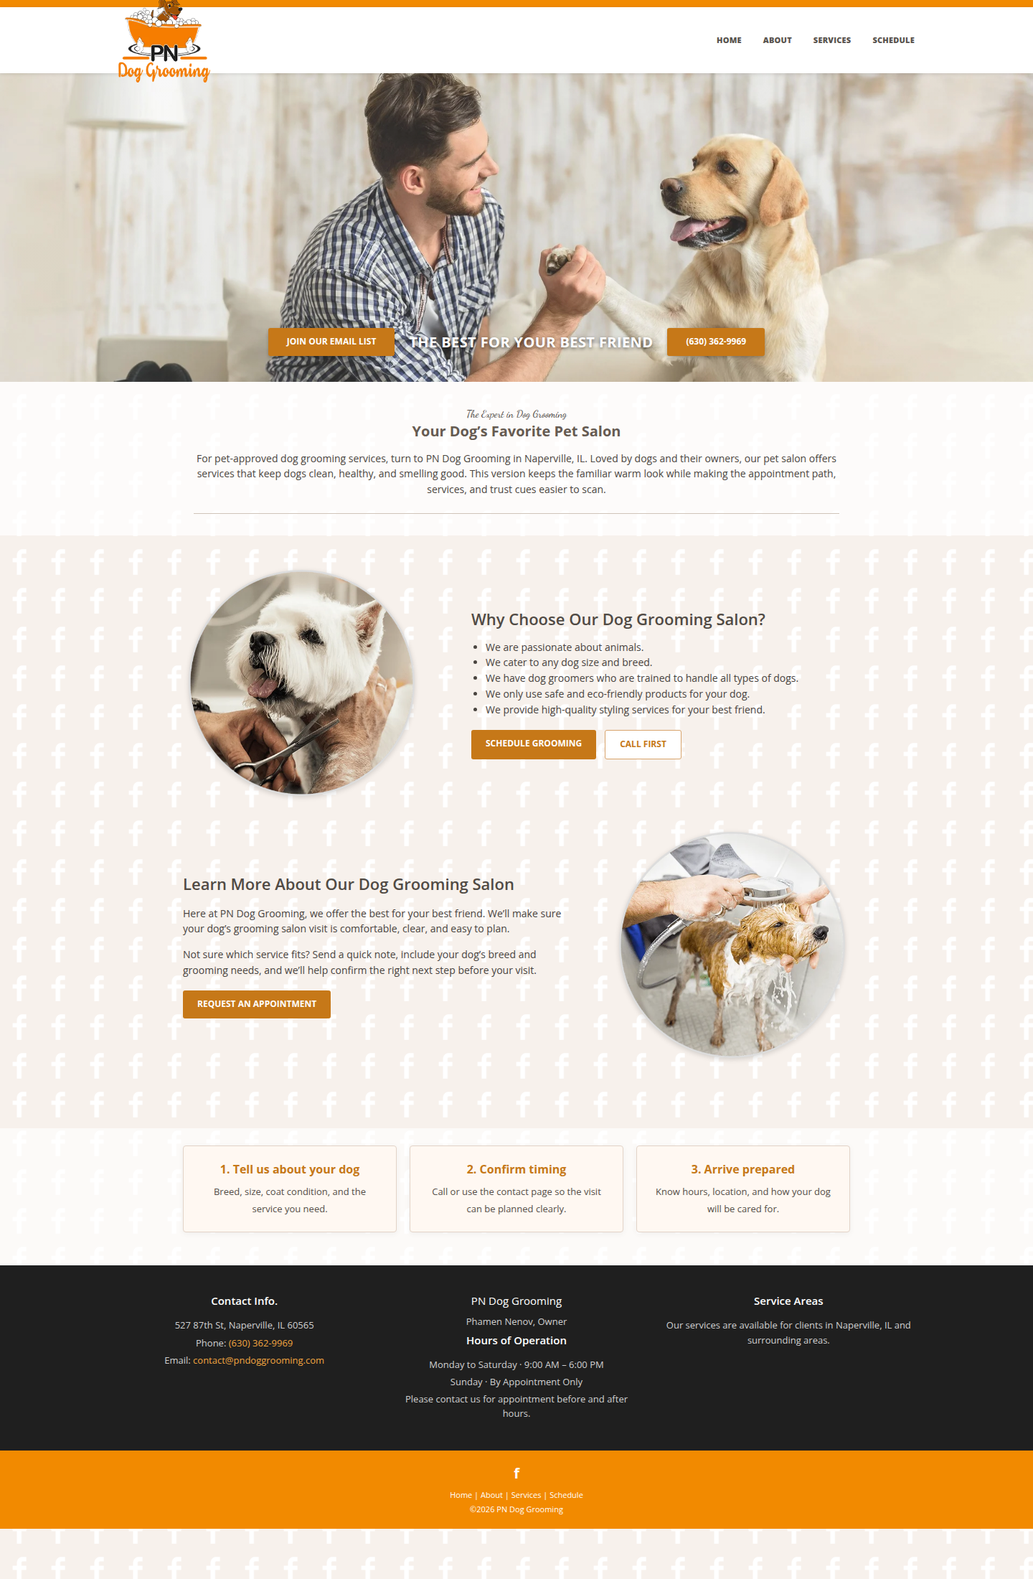
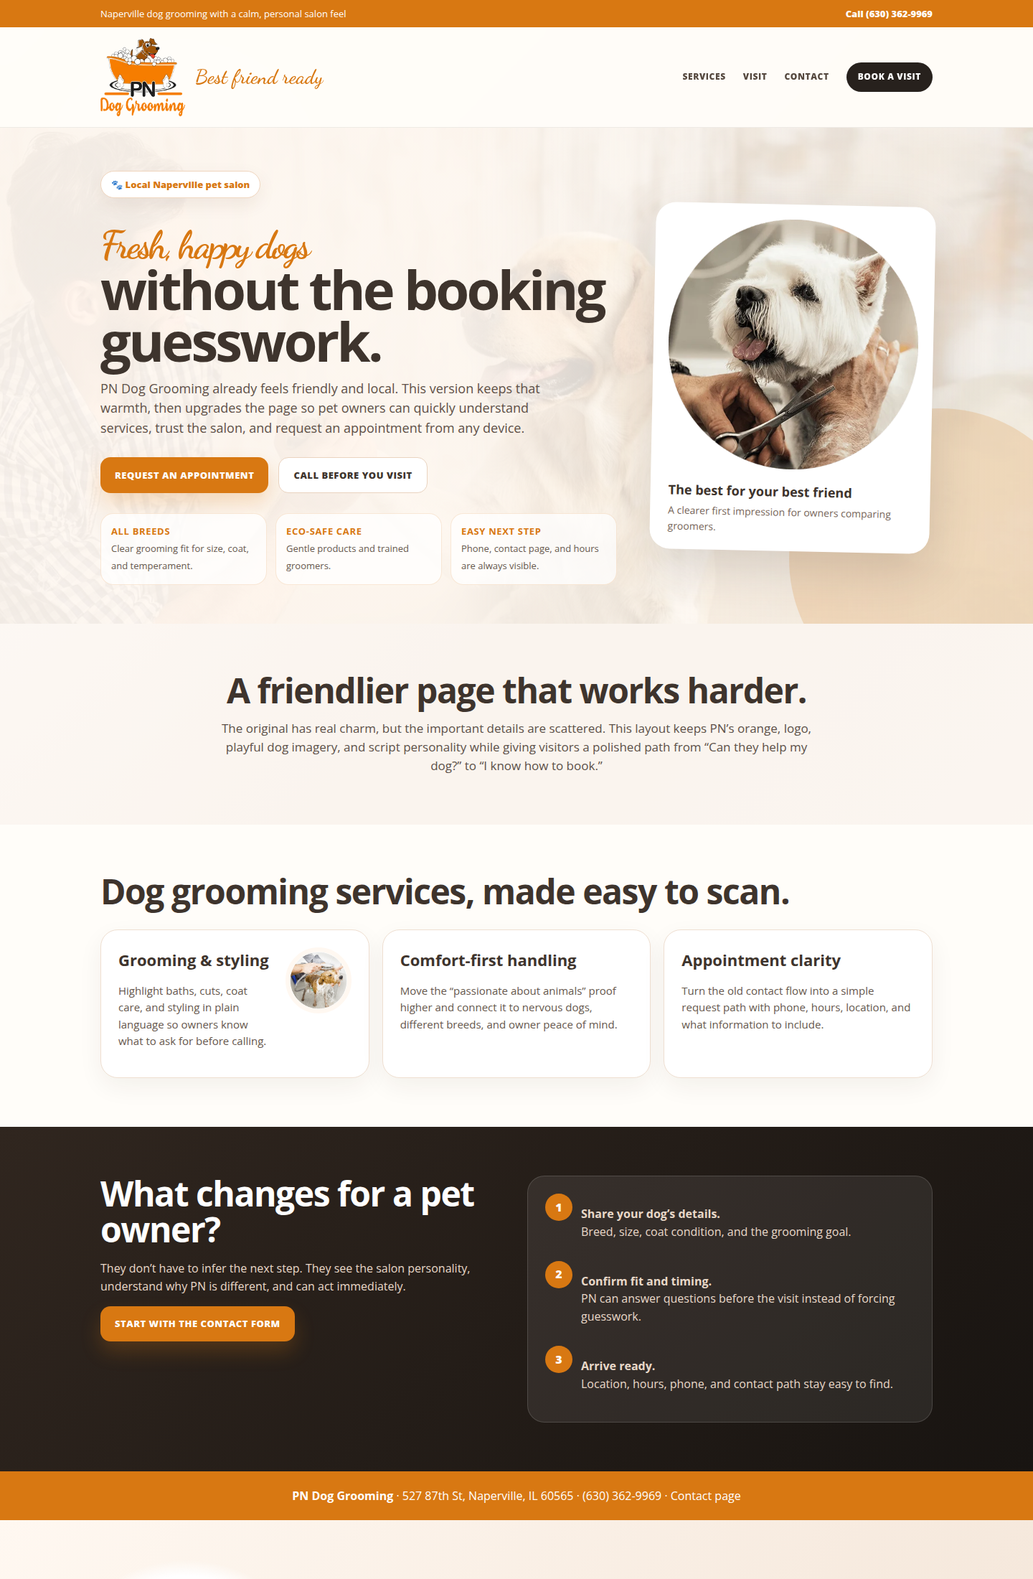
Redo PN Dog Grooming as upgraded concept

diff --git a/prototypes/2026-04-28-2238-overnight-2/pn-dog-grooming/index.html b/prototypes/2026-04-28-2238-overnight-2/pn-dog-grooming/index.html
@@ -3,82 +3,54 @@
 <head>
   <meta charset="utf-8">
   <meta name="viewport" content="width=device-width, initial-scale=1">
-  <title>PN Dog Grooming | Naperville Pet Salon</title>
-  <meta name="description" content="PN Dog Grooming in Naperville keeps the warm pet-salon feel while making grooming services, trust cues, and scheduling easier to find.">
+  <title>PN Dog Grooming | Calm, Clear Grooming in Naperville</title>
+  <meta name="description" content="A warmer, clearer PN Dog Grooming concept that keeps the salon's friendly personality while improving booking, service clarity, and mobile action paths.">
   <link rel="preconnect" href="https://fonts.googleapis.com">
   <link rel="preconnect" href="https://fonts.gstatic.com" crossorigin>
-  <link href="https://fonts.googleapis.com/css2?family=Dancing+Script:wght@400;700&family=Open+Sans:wght@300;400;600;700;800&display=swap" rel="stylesheet">
+  <link href="https://fonts.googleapis.com/css2?family=Dancing+Script:wght@600;700&family=Open+Sans:wght@400;600;700;800&display=swap" rel="stylesheet">
   <style>
-    *{box-sizing:border-box}html{scroll-behavior:smooth}body{margin:0;font-family:'Open Sans',Arial,sans-serif;color:#423b35;background:#f7f1ec url('https://si.nccdn.net/pictograms-white/256/icon_178.png') repeat;background-size:54px;line-height:1.55}.wrap{width:min(1110px,calc(100% - 34px));margin:auto}a{text-decoration:none;color:inherit}.orangebar{height:10px;background:#f28a00}.header{background:#fff;box-shadow:0 1px 5px rgba(0,0,0,.12);position:relative;z-index:5}.head{height:92px;display:flex;align-items:center;justify-content:space-between;gap:28px}.logo{display:flex;align-items:center}.logo img{width:128px;height:auto;display:block}.nav{display:flex;gap:30px;align-items:center;text-transform:uppercase;font-size:11px;font-weight:800;color:#57524d;letter-spacing:.02em}.nav a:hover{color:#df7f00}.hero{min-height:430px;background:linear-gradient(90deg,rgba(255,255,255,.12),rgba(255,255,255,.05)),url('https://0201.nccdn.net/4_2/000/000/079/c81/banner01-min-1920x600.jpg#RDAMDAID17653376') center/cover no-repeat;position:relative}.hero .wrap{min-height:430px;display:flex;align-items:flex-end;justify-content:center;padding-bottom:36px}.hero-strip{display:flex;align-items:center;justify-content:center;gap:20px;width:min(760px,100%)}.pill{background:#c67818;color:#fff;border:0;border-radius:3px;padding:10px 26px;font-size:12px;text-transform:uppercase;font-weight:700;box-shadow:0 2px 4px rgba(0,0,0,.22)}.hero-title{color:#fff;text-shadow:0 2px 5px rgba(0,0,0,.55);font-size:20px;text-transform:uppercase;font-weight:700;letter-spacing:.02em;white-space:nowrap}.intro{text-align:center;padding:38px 0 30px;background:rgba(255,255,255,.72)}.script{font-family:'Dancing Script',cursive;color:#d58a31;font-size:43px;line-height:1.05;margin:0 0 6px}.intro h1{font-size:20px;margin:0 0 12px;color:#665b52;font-weight:700}.intro p{max-width:920px;margin:0 auto;font-size:14px;color:#4b4641}.divider{height:1px;background:#cfc3b8;margin:22px auto 0;width:min(900px,92%)}.section{padding:48px 0}.feature{display:grid;grid-template-columns:330px 1fr;gap:72px;align-items:center;max-width:930px;margin:0 auto 50px}.feature.reverse{grid-template-columns:1fr 330px}.round{width:315px;height:315px;border-radius:50%;background:#ddd center/cover no-repeat;margin:auto;box-shadow:0 2px 7px rgba(0,0,0,.15)}.feature h2{font-size:22px;margin:0 0 12px;color:#504a44;font-weight:600}.feature p,.feature li{font-size:14px;color:#49443f}.feature ul{margin:0;padding-left:20px}.cta-row{margin-top:18px;display:flex;gap:12px;flex-wrap:wrap}.cta{display:inline-block;background:#c67818;color:#fff;padding:10px 20px;border-radius:3px;font-size:12px;text-transform:uppercase;font-weight:700}.cta.secondary{background:#fff;color:#c67818;border:1px solid #d8a36b}.footer-top{background:#1f1f1f;color:#e8e8e8;padding:38px 0}.footer-grid{display:grid;grid-template-columns:1fr 1fr 1fr;gap:28px;text-align:center}.footer-grid h3{font-size:15px;margin:0 0 12px;color:#fff;font-weight:600}.footer-grid p{font-size:13px;margin:4px 0;color:#d0d0d0}.footer-grid a{color:#f1a540}.footer-brand{font-size:15px;margin-bottom:7px;color:#fff}.footer-orange{background:#f28a00;color:#fff;text-align:center;padding:16px 0}.social{font-size:20px;font-weight:700;margin-bottom:6px}.footer-orange p{margin:3px 0;font-size:11px}.mobile-cta{display:none}.quick{background:rgba(255,255,255,.62);padding:24px 0 46px}.quick .wrap{display:grid;grid-template-columns:repeat(3,1fr);gap:18px;max-width:930px}.quick-card{background:#fff8f2;border:1px solid #e2d3c7;border-radius:4px;padding:20px;text-align:center;box-shadow:0 2px 9px rgba(0,0,0,.05)}.quick-card b{display:block;color:#c67818;margin-bottom:5px}.quick-card span{font-size:13px;color:#554e48}@media(max-width:850px){.head{height:auto;padding:14px 0;align-items:center}.logo img{width:112px}.nav{gap:14px;font-size:10px;flex-wrap:wrap;justify-content:flex-end}.hero,.hero .wrap{min-height:315px}.hero-strip{flex-direction:column;gap:10px}.hero-title{white-space:normal;text-align:center}.script{font-size:34px}.feature,.feature.reverse{grid-template-columns:1fr;gap:24px;text-align:center}.feature.reverse .copy{order:2}.feature.reverse .round{order:1}.round{width:260px;height:260px}.footer-grid,.quick .wrap{grid-template-columns:1fr}.mobile-cta{display:block;position:fixed;left:12px;right:12px;bottom:12px;background:#c67818;color:#fff;text-align:center;padding:13px;border-radius:4px;font-weight:800;z-index:20;box-shadow:0 4px 16px rgba(0,0,0,.25)}}
+    :root{--ink:#3e342d;--muted:#77665a;--cream:#fff8f1;--paper:#fffdf9;--tan:#e9d2be;--orange:#d87812;--orange2:#f69a25;--dark:#27211d;--green:#6d8b55;--rose:#f8dfd4}*{box-sizing:border-box}html{scroll-behavior:smooth}body{margin:0;font-family:'Open Sans',Arial,sans-serif;color:var(--ink);background:radial-gradient(circle at 18% 12%,#fff 0 8%,transparent 9%),linear-gradient(135deg,#fff8f1 0%,#f4e6d9 48%,#f9efe6 100%);line-height:1.55}a{text-decoration:none;color:inherit}.wrap{width:min(1160px,calc(100% - 36px));margin:auto}.topline{background:var(--orange);color:#fff;font-size:13px}.topline .wrap{display:flex;justify-content:space-between;gap:18px;align-items:center;padding:9px 0}.topline a{font-weight:800}.header{background:rgba(255,253,249,.94);backdrop-filter:blur(10px);position:sticky;top:0;z-index:20;border-bottom:1px solid rgba(62,52,45,.09)}.head{display:flex;align-items:center;justify-content:space-between;gap:26px;padding:15px 0}.logo{display:flex;align-items:center;gap:14px}.logo img{width:118px;height:auto}.brandline{font-family:'Dancing Script',cursive;color:var(--orange);font-size:28px;line-height:1}.nav{display:flex;align-items:center;gap:24px;text-transform:uppercase;font-size:12px;font-weight:800;letter-spacing:.05em;color:#55483f}.nav .book{background:var(--dark);color:#fff;padding:11px 16px;border-radius:999px}.hero{position:relative;overflow:hidden;padding:60px 0 54px}.hero:before{content:"";position:absolute;inset:0;background:linear-gradient(90deg,rgba(255,248,241,.94) 0 45%,rgba(255,248,241,.50)),url('https://0201.nccdn.net/4_2/000/000/079/c81/banner01-min-1920x600.jpg#RDAMDAID17653376') center right/cover no-repeat;z-index:-2}.hero:after{content:"";position:absolute;right:-80px;bottom:-120px;width:420px;height:420px;border-radius:50%;background:rgba(216,120,18,.18);z-index:-1}.hero-grid{display:grid;grid-template-columns:minmax(0,1.02fr) 390px;gap:46px;align-items:center}.badge{display:inline-flex;align-items:center;gap:8px;background:#fff;border:1px solid #f0d6bf;border-radius:999px;padding:8px 14px;color:var(--orange);font-weight:800;font-size:13px;box-shadow:0 9px 24px rgba(88,57,30,.08)}h1{font-size:clamp(42px,6.3vw,76px);line-height:.95;margin:18px 0 16px;letter-spacing:-.05em}.script{font-family:'Dancing Script',cursive;color:var(--orange);font-size:clamp(34px,4vw,54px);line-height:.95}.lead{font-size:18px;max-width:650px;color:#5f5148;margin:0 0 26px}.actions{display:flex;gap:14px;flex-wrap:wrap}.btn{display:inline-flex;align-items:center;justify-content:center;border-radius:14px;padding:14px 20px;font-weight:900;text-transform:uppercase;font-size:13px;letter-spacing:.04em}.primary{background:var(--orange);color:#fff;box-shadow:0 14px 28px rgba(216,120,18,.24)}.secondary{background:#fff;color:var(--ink);border:1px solid #ead3bf}.hero-card{background:#fff;border-radius:28px;padding:18px;box-shadow:0 24px 70px rgba(62,52,45,.18);transform:rotate(1.2deg)}.hero-card img{display:block;width:100%;border-radius:22px;aspect-ratio:1/1;object-fit:cover}.card-note{padding:15px 7px 4px}.card-note b{display:block;font-size:18px}.card-note span{display:block;color:var(--muted);font-size:14px;margin-top:3px}.quick{margin-top:28px;display:grid;grid-template-columns:repeat(3,1fr);gap:12px;max-width:720px}.quick div{background:rgba(255,255,255,.76);border:1px solid rgba(216,120,18,.16);border-radius:18px;padding:14px}.quick b{display:block;color:var(--orange);font-size:13px;text-transform:uppercase;letter-spacing:.05em}.quick span{font-size:13px;color:#66584e}.section{padding:68px 0}.intro{text-align:center;background:rgba(255,255,255,.54)}.intro h2,.services h2,.visit h2{font-size:clamp(32px,4vw,48px);line-height:1.05;margin:0 0 14px;letter-spacing:-.03em}.intro p{max-width:850px;margin:0 auto;color:#5d5149;font-size:17px}.services{background:var(--paper)}.service-grid{display:grid;grid-template-columns:repeat(3,1fr);gap:18px;margin-top:28px}.service-card{background:#fff;border:1px solid #efdfd1;border-radius:24px;padding:24px;box-shadow:0 12px 34px rgba(58,39,25,.06)}.service-card img{width:92px;height:92px;border-radius:50%;object-fit:cover;float:right;margin:0 0 10px 16px;border:6px solid var(--cream)}.service-card h3{font-size:22px;margin:0 0 10px}.service-card p{color:#66584e;font-size:15px}.visit{background:linear-gradient(135deg,#30261f,#181411);color:#fff}.visit-grid{display:grid;grid-template-columns:1fr 1fr;gap:30px;align-items:start}.visit h2{color:#fff}.visit p{color:#e8d8c8}.panel{background:rgba(255,255,255,.08);border:1px solid rgba(255,255,255,.14);border-radius:24px;padding:24px}.steps{display:grid;gap:12px}.step{display:grid;grid-template-columns:38px 1fr;gap:12px;align-items:start}.num{width:38px;height:38px;border-radius:50%;background:var(--orange);display:grid;place-items:center;font-weight:900}.footer{background:var(--orange);color:#fff;text-align:center;padding:22px 0}.mobile-cta{display:none}@media(max-width:900px){.topline .wrap{display:block;text-align:center}.head{align-items:flex-start}.nav{gap:12px;flex-wrap:wrap;justify-content:flex-end}.brandline{display:none}.hero-grid,.visit-grid{grid-template-columns:1fr}.hero:before{background:linear-gradient(rgba(255,248,241,.92),rgba(255,248,241,.84)),url('https://0201.nccdn.net/4_2/000/000/079/c81/banner01-min-1920x600.jpg#RDAMDAID17653376') center/cover no-repeat}.hero-card{max-width:360px;margin:auto}.quick,.service-grid{grid-template-columns:1fr}.mobile-cta{display:block;position:fixed;left:12px;right:12px;bottom:12px;z-index:50;background:var(--orange);color:#fff;text-align:center;padding:14px;border-radius:14px;font-weight:900;box-shadow:0 12px 32px rgba(0,0,0,.28)}}
   </style>
 </head>
 <body>
-  <div class="orangebar"></div>
+  <div class="topline"><div class="wrap"><span>Naperville dog grooming with a calm, personal salon feel</span><a href="tel:6303629969">Call (630) 362-9969</a></div></div>
   <header class="header">
     <div class="wrap head">
-      <a class="logo" href="#top" aria-label="PN Dog Grooming home"><img src="https://0201.nccdn.net/1_2/000/000/0c1/f19/logo_1.png#RDAMDAID17636817" alt="PN Dog Grooming"></a>
-      <nav class="nav" aria-label="Primary navigation"><a href="#home">Home</a><a href="#about">About</a><a href="#services">Services</a><a href="#schedule">Schedule</a></nav>
+      <a class="logo" href="#top"><img src="https://0201.nccdn.net/1_2/000/000/0c1/f19/logo_1.png#RDAMDAID17636817" alt="PN Dog Grooming"><span class="brandline">Best friend ready</span></a>
+      <nav class="nav"><a href="#services">Services</a><a href="#visit">Visit</a><a href="#contact">Contact</a><a class="book" href="https://www.pndoggrooming.com/contact.html">Book a visit</a></nav>
     </div>
   </header>
   <main id="top">
-    <section class="hero" id="home" aria-label="PN Dog Grooming hero">
-      <div class="wrap">
-        <div class="hero-strip"><a class="pill" href="https://www.pndoggrooming.com/contact.html">Join our email list</a><div class="hero-title">The Best For Your Best Friend</div><a class="pill" href="tel:6303629969">(630) 362-9969</a></div>
-      </div>
-    </section>
-    <section class="intro" id="about">
-      <div class="wrap">
-        <p class="script">The Expert in Dog Grooming</p>
-        <h1>Your Dog’s Favorite Pet Salon</h1>
-        <p>For pet-approved dog grooming services, turn to PN Dog Grooming in Naperville, IL. Loved by dogs and their owners, our pet salon offers services that keep dogs clean, healthy, and smelling good. This version keeps the familiar warm look while making the appointment path, services, and trust cues easier to scan.</p>
-        <div class="divider"></div>
-      </div>
-    </section>
-    <section class="section" id="services">
-      <div class="wrap">
-        <div class="feature">
-          <div class="round" style="background-image:url('https://0201.nccdn.net/1_2/000/000/09f/944/page-img01-min-490x490.png')"></div>
-          <div class="copy">
-            <h2>Why Choose Our Dog Grooming Salon?</h2>
-            <ul>
-              <li>We are passionate about animals.</li>
-              <li>We cater to any dog size and breed.</li>
-              <li>We have dog groomers who are trained to handle all types of dogs.</li>
-              <li>We only use safe and eco-friendly products for your dog.</li>
-              <li>We provide high-quality styling services for your best friend.</li>
-            </ul>
-            <div class="cta-row"><a class="cta" href="https://www.pndoggrooming.com/contact.html">Schedule Grooming</a><a class="cta secondary" href="tel:6303629969">Call First</a></div>
-          </div>
+    <section class="hero">
+      <div class="wrap hero-grid">
+        <div>
+          <span class="badge">🐾 Local Naperville pet salon</span>
+          <h1><span class="script">Fresh, happy dogs</span><br>without the booking guesswork.</h1>
+          <p class="lead">PN Dog Grooming already feels friendly and local. This version keeps that warmth, then upgrades the page so pet owners can quickly understand services, trust the salon, and request an appointment from any device.</p>
+          <div class="actions"><a class="btn primary" href="https://www.pndoggrooming.com/contact.html">Request an appointment</a><a class="btn secondary" href="tel:6303629969">Call before you visit</a></div>
+          <div class="quick"><div><b>All breeds</b><span>Clear grooming fit for size, coat, and temperament.</span></div><div><b>Eco-safe care</b><span>Gentle products and trained groomers.</span></div><div><b>Easy next step</b><span>Phone, contact page, and hours are always visible.</span></div></div>
         </div>
-        <div class="feature reverse" id="schedule">
-          <div class="copy">
-            <h2>Learn More About Our Dog Grooming Salon</h2>
-            <p>Here at PN Dog Grooming, we offer the best for your best friend. We’ll make sure your dog’s grooming salon visit is comfortable, clear, and easy to plan.</p>
-            <p>Not sure which service fits? Send a quick note, include your dog’s breed and grooming needs, and we’ll help confirm the right next step before your visit.</p>
-            <div class="cta-row"><a class="cta" href="https://www.pndoggrooming.com/contact.html">Request an Appointment</a></div>
-          </div>
-          <div class="round" style="background-image:url('https://0201.nccdn.net/1_2/000/000/138/d7d/page-img02-min-490x490.png')"></div>
-        </div>
+        <aside class="hero-card" aria-label="Happy dog grooming feature"><img src="https://0201.nccdn.net/1_2/000/000/09f/944/page-img01-min-490x490.png" alt="Freshly groomed dog"><div class="card-note"><b>The best for your best friend</b><span>A clearer first impression for owners comparing groomers.</span></div></aside>
       </div>
     </section>
-    <section class="quick" aria-label="Booking guidance">
-      <div class="wrap">
-        <div class="quick-card"><b>1. Tell us about your dog</b><span>Breed, size, coat condition, and the service you need.</span></div>
-        <div class="quick-card"><b>2. Confirm timing</b><span>Call or use the contact page so the visit can be planned clearly.</span></div>
-        <div class="quick-card"><b>3. Arrive prepared</b><span>Know hours, location, and how your dog will be cared for.</span></div>
+    <section class="section intro">
+      <div class="wrap"><h2>A friendlier page that works harder.</h2><p>The original has real charm, but the important details are scattered. This layout keeps PN’s orange, logo, playful dog imagery, and script personality while giving visitors a polished path from “Can they help my dog?” to “I know how to book.”</p></div>
+    </section>
+    <section class="section services" id="services">
+      <div class="wrap"><h2>Dog grooming services, made easy to scan.</h2><div class="service-grid">
+        <article class="service-card"><img src="https://0201.nccdn.net/1_2/000/000/138/d7d/page-img02-min-490x490.png" alt="Dog grooming service"><h3>Grooming & styling</h3><p>Highlight baths, cuts, coat care, and styling in plain language so owners know what to ask for before calling.</p></article>
+        <article class="service-card"><h3>Comfort-first handling</h3><p>Move the “passionate about animals” proof higher and connect it to nervous dogs, different breeds, and owner peace of mind.</p></article>
+        <article class="service-card"><h3>Appointment clarity</h3><p>Turn the old contact flow into a simple request path with phone, hours, location, and what information to include.</p></article>
+      </div></div>
+    </section>
+    <section class="section visit" id="visit">
+      <div class="wrap visit-grid">
+        <div><h2>What changes for a pet owner?</h2><p>They don’t have to infer the next step. They see the salon personality, understand why PN is different, and can act immediately.</p><div class="actions"><a class="btn primary" href="https://www.pndoggrooming.com/contact.html">Start with the contact form</a></div></div>
+        <div class="panel steps"><div class="step"><span class="num">1</span><p><b>Share your dog’s details.</b><br>Breed, size, coat condition, and the grooming goal.</p></div><div class="step"><span class="num">2</span><p><b>Confirm fit and timing.</b><br>PN can answer questions before the visit instead of forcing guesswork.</p></div><div class="step"><span class="num">3</span><p><b>Arrive ready.</b><br>Location, hours, phone, and contact path stay easy to find.</p></div></div>
       </div>
     </section>
   </main>
-  <footer>
-    <div class="footer-top" id="contact">
-      <div class="wrap footer-grid">
-        <div><h3>Contact Info.</h3><p>527 87th St, Naperville, IL 60565</p><p>Phone: <a href="tel:6303629969">(630) 362-9969</a></p><p>Email: <a href="mailto:contact@pndoggrooming.com">contact@pndoggrooming.com</a></p></div>
-        <div><div class="footer-brand">PN Dog Grooming</div><p>Phamen Nenov, Owner</p><h3>Hours of Operation</h3><p>Monday to Saturday · 9:00 AM – 6:00 PM</p><p>Sunday · By Appointment Only</p><p>Please contact us for appointment before and after hours.</p></div>
-        <div><h3>Service Areas</h3><p>Our services are available for clients in Naperville, IL and surrounding areas.</p></div>
-      </div>
-    </div>
-    <div class="footer-orange"><div class="social">f</div><p>Home | About | Services | Schedule</p><p>©2026 PN Dog Grooming</p></div>
-  </footer>
-  <a class="mobile-cta" href="https://www.pndoggrooming.com/contact.html">Schedule Grooming</a>
+  <footer class="footer" id="contact"><div class="wrap"><b>PN Dog Grooming</b> · 527 87th St, Naperville, IL 60565 · <a href="tel:6303629969">(630) 362-9969</a> · <a href="https://www.pndoggrooming.com/contact.html">Contact page</a></div></footer>
+  <a class="mobile-cta" href="https://www.pndoggrooming.com/contact.html">Book PN Dog Grooming</a>
 </body>
 </html>

diff --git a/reports/pn-dog-grooming-fidelity-redo-20260429-1524.html b/reports/pn-dog-grooming-fidelity-redo-20260429-1524.html
@@ -1,0 +1,1 @@
+<!doctype html><html lang="en"><head><meta charset="utf-8"><meta name="viewport" content="width=device-width, initial-scale=1"><title>PN Dog Grooming upgraded concept</title><meta name="robots" content="noindex,nofollow"><style>*{box-sizing:border-box}body{margin:0;font-family:Inter,system-ui,-apple-system,Segoe UI,Arial,sans-serif;background:#101318;color:#f4f6f8;line-height:1.5}.wrap{width:min(1500px,calc(100% - 36px));margin:auto;padding:34px 0 70px}.lede{max-width:930px;color:#c9d0d8}.eyebrow{text-transform:uppercase;letter-spacing:.12em;font-size:12px;color:#73839b;margin:0 0 6px}h1{font-size:clamp(32px,5vw,58px);line-height:1;margin:0 0 16px}h2{font-size:26px;margin:0 0 4px}.site{background:#fff;color:#17202b;border-radius:18px;padding:20px;margin:24px 0;box-shadow:0 18px 50px #0006}.meta{display:flex;align-items:end;justify-content:space-between;gap:20px;flex-wrap:wrap;margin-bottom:16px}.meta code{background:#eef2f6;padding:4px 7px;border-radius:6px}.links{display:flex;gap:10px;flex-wrap:wrap}.links a{background:#17202b;color:#fff;text-decoration:none;padding:9px 12px;border-radius:9px;font-weight:750}.note{background:#fff7e8;border:1px solid #f0d2a5;border-radius:12px;padding:12px 14px;margin:0 0 16px;color:#52351b}.shots{display:grid;grid-template-columns:1fr 1fr;gap:16px}figure{margin:0;border:1px solid #dbe1e8;border-radius:14px;overflow:hidden;background:#f6f8fa}img{display:block;width:100%;height:auto}figcaption{padding:10px 12px;font-weight:850;color:#344052}@media(max-width:900px){.shots{grid-template-columns:1fr}}</style></head><body><main class="wrap"><p class="eyebrow">Small Site Studio</p><h1>PN Dog Grooming upgraded concept</h1><p class="lede">This version intentionally steps farther away from a clone. It keeps PN’s orange, logo, pet imagery, and friendly script feel, but turns the page into a stronger booking-focused experience.</p><article class="site"><div class="meta"><div><p class="eyebrow">2026-04-28-2238-overnight-2</p><h2>PN Dog Grooming</h2><p><code>pn-dog-grooming</code></p></div><div class="links"><a href="https://www.pndoggrooming.com/">Original website</a><a href="https://alexzadclaw-ai.github.io/page-profit-check-prototypes/prototypes/2026-04-28-2238-overnight-2/pn-dog-grooming/index.html">Prototype</a><a href="https://github.com/alexzadclaw-ai/page-profit-check-prototypes/blob/main/opportunities/2026-04-28-2238-overnight-2/pn-dog-grooming-audit.md">Audit report</a><a href="https://github.com/alexzadclaw-ai/page-profit-check-prototypes/blob/main/offers/2026-04-28-2238-overnight-2/pn-dog-grooming-offer.md">Offer letter</a><a href="https://www.pndoggrooming.com/contact.html">Contact point</a><a href="https://github.com/alexzadclaw-ai/page-profit-check-prototypes/blob/main/state/fidelity-repair-100/2026-04-28-2238-overnight-2/pn-dog-grooming-fingerprint.md">Fingerprint</a></div></div><div class="note"><b>Improvement angle:</b> clearer appointment path, stronger first-screen message, scannable service reasons, mobile action path, and cleaner visual hierarchy while retaining PN’s local pet-salon cues.</div><div class="shots"><figure><img src="assets/pn-dog-grooming-fidelity-redo-20260429-1524/pn-dog-grooming-original.webp" alt="Original website screenshot for PN Dog Grooming"><figcaption>Original website</figcaption></figure><figure><img src="assets/pn-dog-grooming-fidelity-redo-20260429-1524/pn-dog-grooming-prototype.webp" alt="Prototype screenshot for PN Dog Grooming"><figcaption>Prototype</figcaption></figure></div></article></main></body></html>
